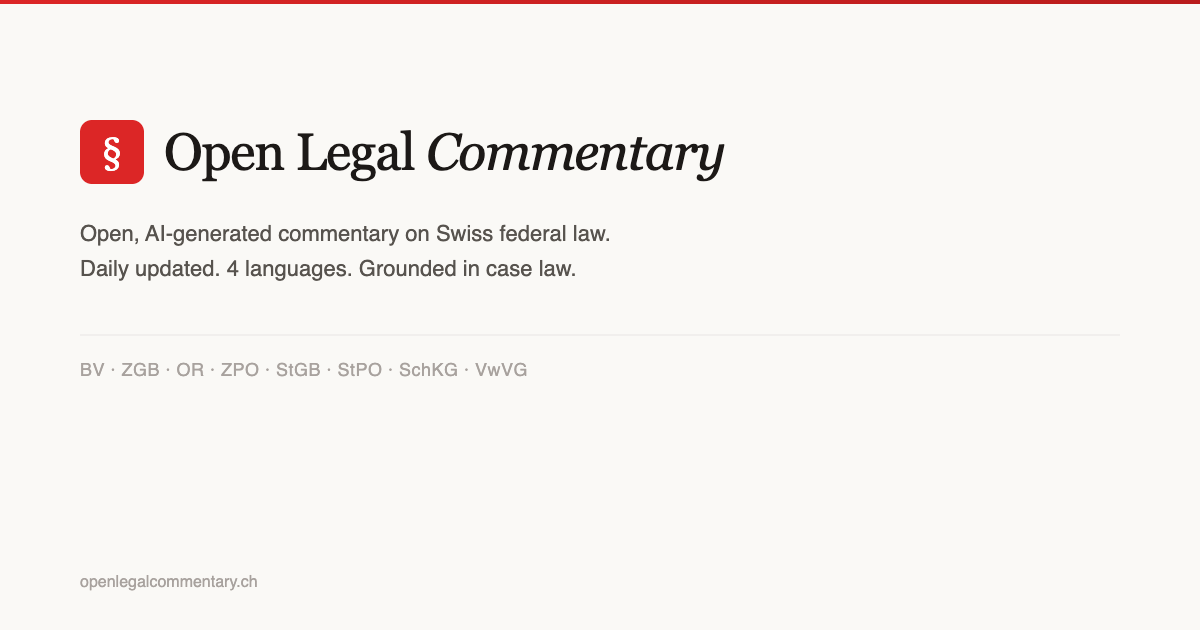
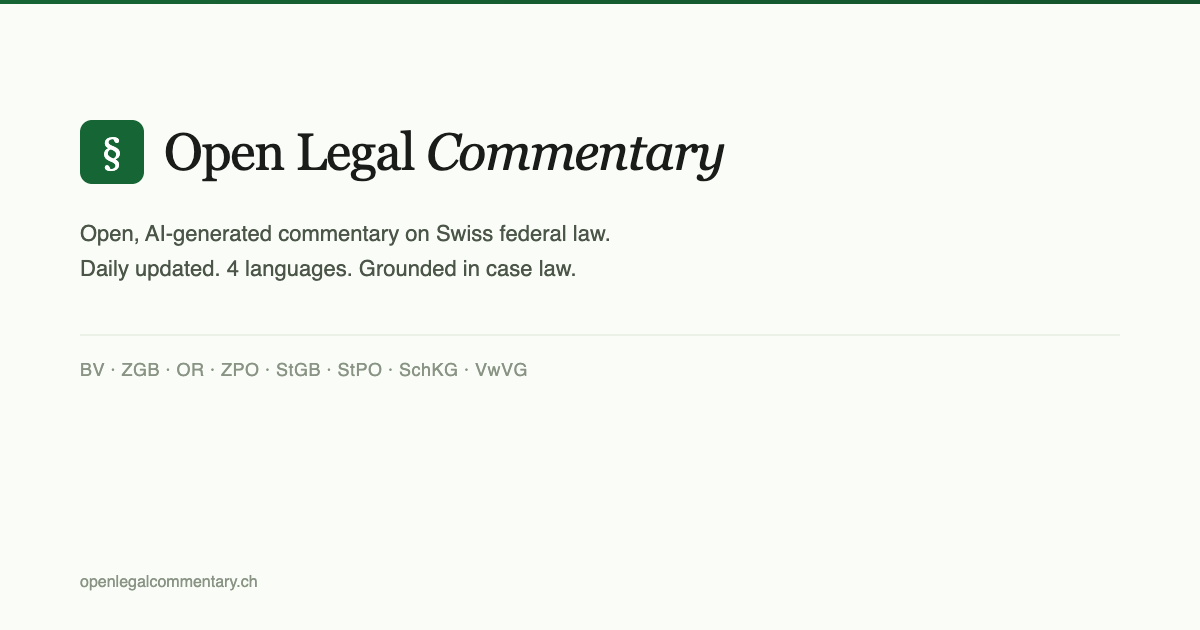
feat: change color scheme from Swiss Red to Scholarly Green
Light mode: forest green accent (#166534), warm green-tinted
backgrounds and borders. Dark mode: bright green accent (#4ADE80)
on deep green-black. Favicon, OG image, and gradient updated.

diff --git a/site/src/styles/global.css b/site/src/styles/global.css
@@ -40,42 +40,42 @@
   --max-width: 1280px;
 
   /* Gradients & effects */
-  --gradient-accent: linear-gradient(135deg, #DC2626, #B91C1C);
+  --gradient-accent: linear-gradient(135deg, #166534, #14532D);
   --color-hover-tint: color-mix(in srgb, var(--color-accent) 4%, var(--color-bg));
   --color-glass: color-mix(in srgb, var(--color-bg-elevated) 80%, transparent);
 
-  /* Colors — Warm Swiss palette */
-  --color-bg: #FAF9F6;
-  --color-bg-alt: #F2F0EB;
+  /* Colors — Scholarly Green palette */
+  --color-bg: #FAFDF7;
+  --color-bg-alt: #F0F4EC;
   --color-bg-card: #FFFFFF;
   --color-bg-elevated: #FFFFFF;
-  --color-text: #1C1917;
-  --color-text-secondary: #57534E;
-  --color-text-muted: #A8A29E;
-  --color-border: #E7E5E4;
-  --color-border-light: #F5F5F4;
+  --color-text: #1A1C1A;
+  --color-text-secondary: #4B5548;
+  --color-text-muted: #8A9485;
+  --color-border: #DCE4D8;
+  --color-border-light: #EDF2EA;
 
-  /* Accent — Swiss Red */
-  --color-accent: #DC2626;
-  --color-accent-hover: #B91C1C;
-  --color-accent-light: #FEF2F2;
-  --color-accent-subtle: #FECACA;
+  /* Accent — Forest Green */
+  --color-accent: #166534;
+  --color-accent-hover: #14532D;
+  --color-accent-light: #F0FDF4;
+  --color-accent-subtle: #BBF7D0;
 
-  /* Secondary — Gold (for highlights, badges) */
-  --color-gold: #B45309;
+  /* Secondary — Warm Gold */
+  --color-gold: #92400E;
   --color-gold-light: #FEF3C7;
 
   /* Links */
-  --color-link: #1C1917;
-  --color-link-hover: #DC2626;
+  --color-link: #1A1C1A;
+  --color-link-hover: #166534;
 
   /* Tabs */
-  --color-tab-active: #1C1917;
-  --color-tab-inactive: #A8A29E;
-  --color-tab-bg: #F2F0EB;
+  --color-tab-active: #1A1C1A;
+  --color-tab-inactive: #8A9485;
+  --color-tab-bg: #F0F4EC;
 
   /* Code */
-  --color-code-bg: #F5F5F4;
+  --color-code-bg: #F0F4EC;
 
   /* Shadows */
   --shadow-xs: 0 1px 2px rgba(28, 25, 23, 0.04);
@@ -100,26 +100,26 @@
 
 /* ===== Dark Mode ===== */
 [data-theme='dark'] {
-  --color-bg: #0C0A09;
-  --color-bg-alt: #1C1917;
-  --color-bg-card: #1C1917;
-  --color-bg-elevated: #292524;
-  --color-text: #FAFAF9;
-  --color-text-secondary: #A8A29E;
-  --color-text-muted: #78716C;
-  --color-border: #292524;
-  --color-border-light: #1C1917;
-  --color-accent: #EF4444;
-  --color-accent-hover: #F87171;
-  --color-accent-light: #1F1012;
-  --color-accent-subtle: #450A0A;
-  --color-gold: #D97706;
+  --color-bg: #0A0F0C;
+  --color-bg-alt: #141C17;
+  --color-bg-card: #141C17;
+  --color-bg-elevated: #1C2620;
+  --color-text: #F0FDF4;
+  --color-text-secondary: #94A89B;
+  --color-text-muted: #5F7365;
+  --color-border: #1C2620;
+  --color-border-light: #141C17;
+  --color-accent: #4ADE80;
+  --color-accent-hover: #86EFAC;
+  --color-accent-light: #0A1F10;
+  --color-accent-subtle: #052E16;
+  --color-gold: #FBBF24;
   --color-gold-light: #1C1507;
-  --color-link: #FAFAF9;
-  --color-link-hover: #EF4444;
-  --color-tab-active: #FAFAF9;
-  --color-tab-inactive: #78716C;
-  --color-tab-bg: #1C1917;
+  --color-link: #F0FDF4;
+  --color-link-hover: #4ADE80;
+  --color-tab-active: #F0FDF4;
+  --color-tab-inactive: #5F7365;
+  --color-tab-bg: #141C17;
   --color-code-bg: #1C1917;
   --shadow-xs: 0 1px 2px rgba(0, 0, 0, 0.2);
   --shadow-sm: 0 1px 3px rgba(0, 0, 0, 0.3);
